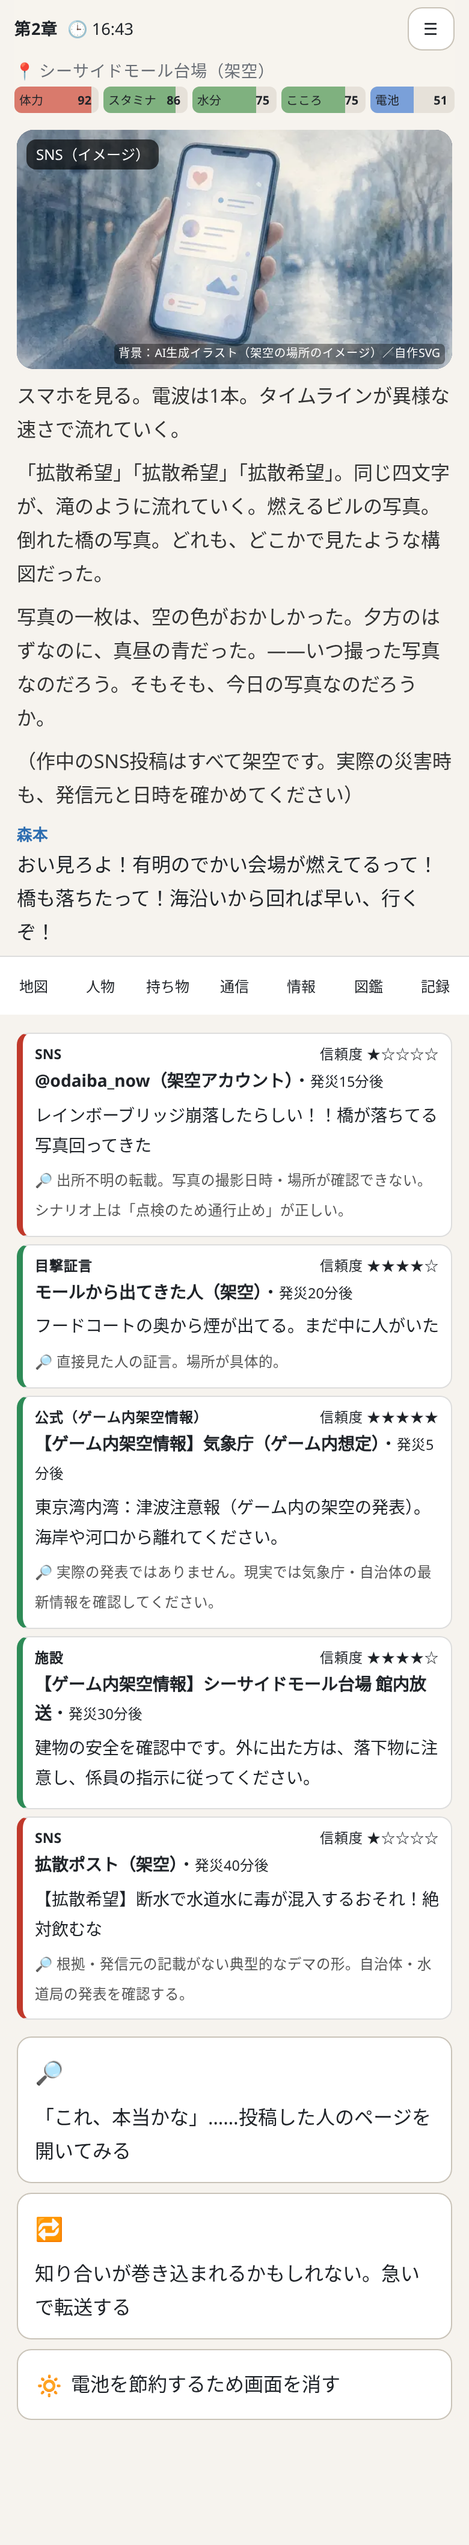
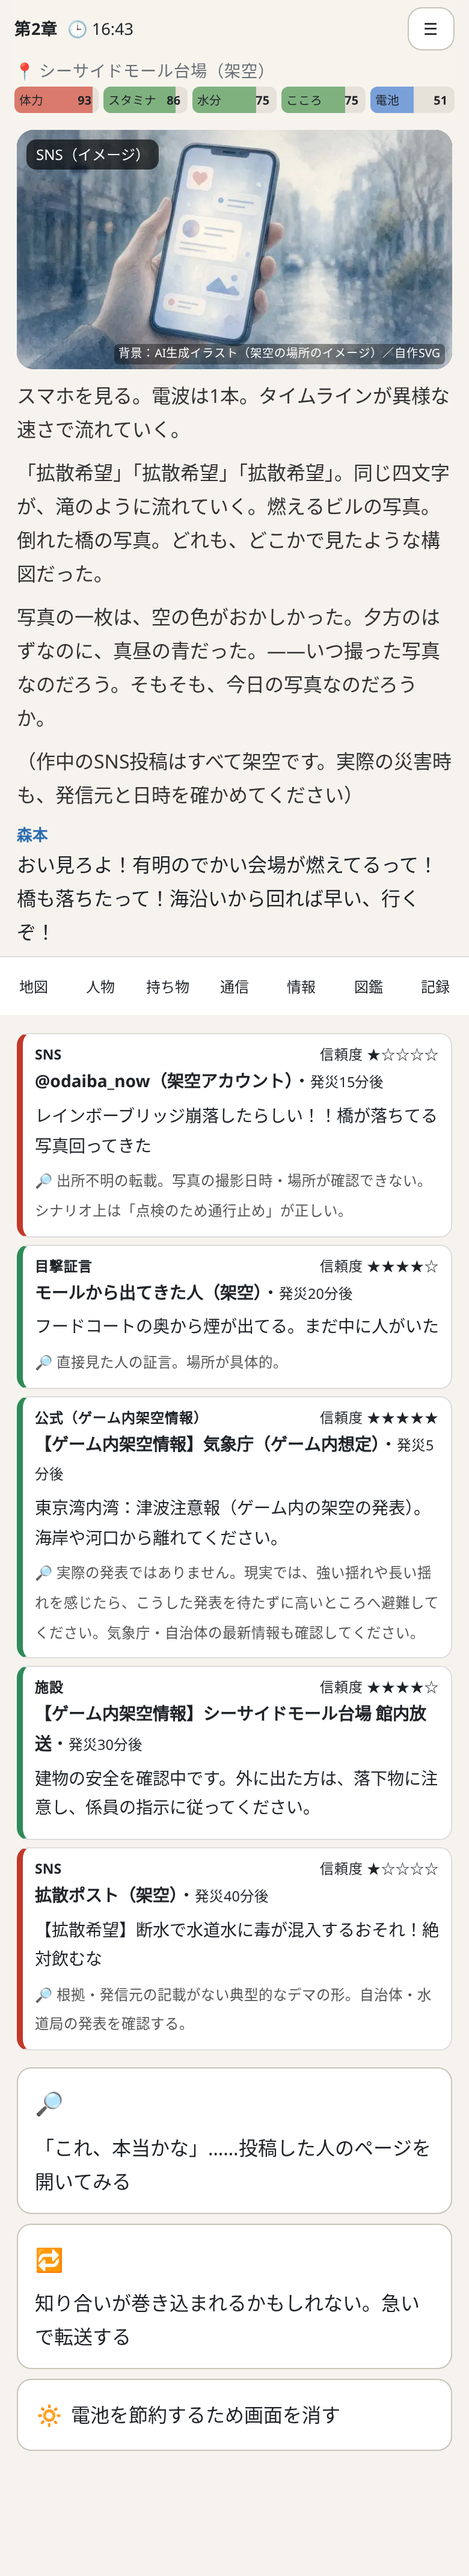
津波の図鑑文言を気象庁の案内に合わせて修正（警報を待たずに避難）
図鑑k_tsunamiの見出しが「注意報・警報が出たら」となっており、警報を待ってから避難すると読める書き方だった。気象庁の案内に合わせ、強い揺れや長い揺れを感じたら発表を待たずに高いところへ避難する旨に直した。架空の津波注意報カードの注記も同じ趣旨を補い、出典を追加した。

diff --git a/src/data/sources.ts b/src/data/sources.ts
@@ -6,7 +6,9 @@ export const sources: Source[] = [
   { id: 'jma_shindo', publisher: '気象庁', title: '震度について', date: '閲覧 2026-10-31', url: 'https://www.jma.go.jp/jma/kishou/know/shindo/index.html', checked: C, used: '震度は観測点での揺れの強さを表す指標であること' },
   { id: 'jma_kaisetsu', publisher: '気象庁', title: '気象庁震度階級関連解説表', date: '閲覧 2026-10-31', url: 'https://www.jma.go.jp/jma/kishou/know/shindo/kaisetsu.html', checked: C, used: '震度6強〜7で固定していない家具の多くが移動・転倒し得る等の揺れの描写の参考' },
   { id: 'jma_faq7', publisher: '気象庁', title: '地震について（よくある質問）', date: '閲覧 2026-10-31（ページ内記載 2025年8月1日現在の表あり）', url: 'https://www.jma.go.jp/jma/kishou/know/faq/faq7.html', checked: C + '・本文「地震の規模はマグニチュード（M）で表します」確認', used: 'マグニチュードは地震の規模であり震度とは別であること' },
-  { id: 'jma_tsunami', publisher: '気象庁', title: '津波警報・注意報、津波情報、津波予報について', date: '閲覧 2026-10-31', url: 'https://www.jma.go.jp/jma/kishou/know/jishin/joho/tsunamiinfo.html', checked: C, used: '津波注意報・警報の区分、海岸から離れる行動' },
+  { id: 'jma_tsunami', publisher: '気象庁', title: '津波警報・注意報、津波情報、津波予報について', date: '閲覧 2026-10-31（要点を 2026-11-18 再確認）', url: 'https://www.jma.go.jp/jma/kishou/know/jishin/joho/tsunamiinfo.html', checked: C + '・本文「強い揺れや弱くても長い揺れを感じたときは、すぐに避難を開始しましょう」を 2026-11-18 再確認', used: '津波注意報・警報の区分と行動。震源が陸地に近いと警報が間に合わないことがあり、強い揺れや弱くても長い揺れを感じたときはすぐに避難を開始すること' },
+  { id: 'jma_tsunami_bosai', publisher: '気象庁', title: '津波から身を守るために', date: '閲覧 2026-11-18', url: 'https://www.jma.go.jp/jma/kishou/know/jishin/tsunami_bosai/index.html', checked: '2026-11-18 HTTP200・タイトル確認・本文「津波警報・注意報を見聞きしたり、海辺で強い揺れを感じたり、長くゆっくりした揺れを感じたりしたら、海辺から離れ、より高い安全な場所へ避難しましょう」確認', used: '強い揺れ・長くゆっくりした揺れを感じたら海辺から離れ、より高い安全な場所へ避難すること' },
+  { id: 'jma_osaka_sonaeru', publisher: '大阪管区気象台（気象庁）', title: '地震・津波に備える', date: '閲覧 2026-11-18', url: 'https://www.data.jma.go.jp/osaka/jishinkazan/sonaeru.html', checked: '2026-11-18 HTTP200・タイトル確認・本文「津波警報等の発表を待たずにすぐ避難しましょう」確認', used: '海の近くで強い揺れや、弱くても長い時間ゆっくりとした揺れを感じたら、津波警報等の発表を待たずにすぐ避難すること' },
   { id: 'jma_eew', publisher: '気象庁', title: '緊急地震速報について', date: '閲覧 2026-10-31', url: 'https://www.jma.go.jp/jma/kishou/know/jishin/eew/index.html', checked: C, used: '震源に近い所では速報が揺れに間に合わない場合があること' },
   { id: 'tokyo_higai', publisher: '東京都', title: '首都直下地震等による東京の被害想定（令和4年5月25日公表）', date: '2022-05-25 公表', url: 'https://www.bousai.metro.tokyo.lg.jp/taisaku/torikumi/1000902/1021571.html', checked: C, used: '想定は震源・季節・時刻・風速等の条件で異なること。本作は数値を引用せず、架空シナリオとして扱う' },
   { id: 'tokyo_kitaku', publisher: '東京都', title: '帰宅困難者対策（東京都防災ホームページ）', date: '閲覧 2026-10-31', url: 'https://www.bousai.metro.tokyo.lg.jp/kitaku_portal/index.html', checked: C + '・本文「一斉帰宅の抑制」確認', used: '一斉帰宅の抑制、一時滞在施設、キタコンDX' },

diff --git a/src/data/misc.ts b/src/data/misc.ts
@@ -3,7 +3,7 @@ const F = '【ゲーム内架空情報】';
 export const info: InfoPost[] = [
   { id: 'i_sns_bridge', source: 'sns', from: '@odaiba_now（架空アカウント）', at: '発災15分後', text: 'レインボーブリッジ崩落したらしい！！橋が落ちてる写真回ってきた', reliability: 1, truth: false, note: '出所不明の転載。写真の撮影日時・場所が確認できない。シナリオ上は「点検のため通行止め」が正しい。' },
   { id: 'i_sns_fire', source: 'witness', from: 'モールから出てきた人（架空）', at: '発災20分後', text: 'フードコートの奥から煙が出てる。まだ中に人がいた', reliability: 4, truth: true, note: '直接見た人の証言。場所が具体的。' },
-  { id: 'i_off_tsunami', source: 'official-fiction', from: F + '気象庁（ゲーム内想定）', at: '発災5分後', text: '東京湾内湾：津波注意報（ゲーム内の架空の発表）。海岸や河口から離れてください。', reliability: 5, truth: true, note: '実際の発表ではありません。現実では気象庁・自治体の最新情報を確認してください。' },
+  { id: 'i_off_tsunami', source: 'official-fiction', from: F + '気象庁（ゲーム内想定）', at: '発災5分後', text: '東京湾内湾：津波注意報（ゲーム内の架空の発表）。海岸や河口から離れてください。', reliability: 5, truth: true, note: '実際の発表ではありません。現実では、強い揺れや長い揺れを感じたら、こうした発表を待たずに高いところへ避難してください。気象庁・自治体の最新情報も確認してください。' },
   { id: 'i_fac_stay', source: 'facility', from: F + 'シーサイドモール台場 館内放送', at: '発災30分後', text: '建物の安全を確認中です。外に出た方は、落下物に注意し、係員の指示に従ってください。', reliability: 4, truth: true },
   { id: 'i_sns_water', source: 'sns', from: '拡散ポスト（架空）', at: '発災40分後', text: '【拡散希望】断水で水道水に毒が混入するおそれ！絶対飲むな', reliability: 1, truth: false, note: '根拠・発信元の記載がない典型的なデマの形。自治体・水道局の発表を確認する。' },
   { id: 'i_fac_open', source: 'facility', from: F + '青海ホール（架空施設）職員', at: '発災2時間後', text: '一時滞在施設として受け入れを開始しました。水・毛布・トイレがあります。', reliability: 5, truth: true },

diff --git a/src/data/knowledge.ts b/src/data/knowledge.ts
@@ -10,7 +10,7 @@ export const knowledge: Knowledge[] = [
   K('k_crowd', '揺れの直後', '出口に殺到しない', '施設の誘導や放送を待ち、群集の中で走らない。将棋倒しの危険がある。', ['tokyo_kitaku'], '確立', '要監修'),
   K('k_fire_initial', '火災', '初期消火には限界がある', '小さな火なら消火器で消せる場合がある。炎が天井に届くほどになったら消火をやめて避難する、というのが一般的な目安。', ['tokyo_book'], '確立', '要監修'),
   K('k_smoke', '火災', '煙からは低い姿勢で離れる', '煙は上にたまる。口と鼻を覆い、姿勢を低くして煙の来ない方向へ。', ['tokyo_book'], '確立', '要監修'),
-  K('k_tsunami', '津波', '津波注意報・警報が出たら海岸から離れる', '注意報でも海に入ったり海岸に近づいたりしない。警報なら高台や頑丈な高い建物へ。様子を見に行かない。', ['jma_tsunami']),
+  K('k_tsunami', '津波', '強い揺れや長い揺れを感じたら、警報を待たずに高いところへ', '海の近くで強い揺れを感じたり、弱くても長い時間ゆっくりとした揺れを感じたりしたら、津波警報等の発表を待たずに、ただちに海岸から離れ、より高い安全な場所（高台や津波避難ビルなど）へ避難する。揺れを感じなくても、警報・注意報を見聞きしたら同じ。注意報でも海に入ったり海岸に近づいたりしない。様子を見に行かない。', ['jma_tsunami', 'jma_tsunami_bosai', 'jma_osaka_sonaeru']),
   K('k_liquefaction', '地盤', '液状化：噴砂・段差・マンホールの浮き上がり', '埋立地などで地盤が液状化すると、砂や水が噴き出し、道路に段差や陥没が生じることがある。「埋立地だから必ず液状化する」わけではなく、場所ごとの地盤・対策で異なる。', ['gsi_portal'], '確立', '要監修'),
   K('k_comm', '通信', '電話はつながりにくくなる', '災害時は通話が集中し、電話やネットがつながりにくくなる。何度もかけ直すより、伝言サービスやメッセージを使う。', ['kantei_jishin']),
   K('k_171', '通信', '災害用伝言ダイヤル171', '災害でつながりにくくなった時に提供される伝言サービス。「171」にかけて自分の電話番号で録音・再生する。体験利用日に家族で練習しておくと安心。', ['ntt171']),

diff --git a/docs/KNOWLEDGE_DB.md b/docs/KNOWLEDGE_DB.md
@@ -56,11 +56,11 @@
 
 煙は上にたまる。口と鼻を覆い、姿勢を低くして煙の来ない方向へ。
 
-### k_tsunami 津波注意報・警報が出たら海岸から離れる
+### k_tsunami 強い揺れや長い揺れを感じたら、警報を待たずに高いところへ
 - 分類: 津波 / レベル: 確立 / 状態: 出典確認済(専門家未監修)
-- 出典: jma_tsunami
+- 出典: jma_tsunami, jma_tsunami_bosai, jma_osaka_sonaeru
 
-注意報でも海に入ったり海岸に近づいたりしない。警報なら高台や頑丈な高い建物へ。様子を見に行かない。
+海の近くで強い揺れを感じたり、弱くても長い時間ゆっくりとした揺れを感じたりしたら、津波警報等の発表を待たずに、ただちに海岸から離れ、より高い安全な場所（高台や津波避難ビルなど）へ避難する。揺れを感じなくても、警報・注意報を見聞きしたら同じ。注意報でも海に入ったり海岸に近づいたりしない。様子を見に行かない。
 
 ### k_liquefaction 液状化：噴砂・段差・マンホールの浮き上がり
 - 分類: 地盤 / レベル: 確立 / 状態: 要監修
